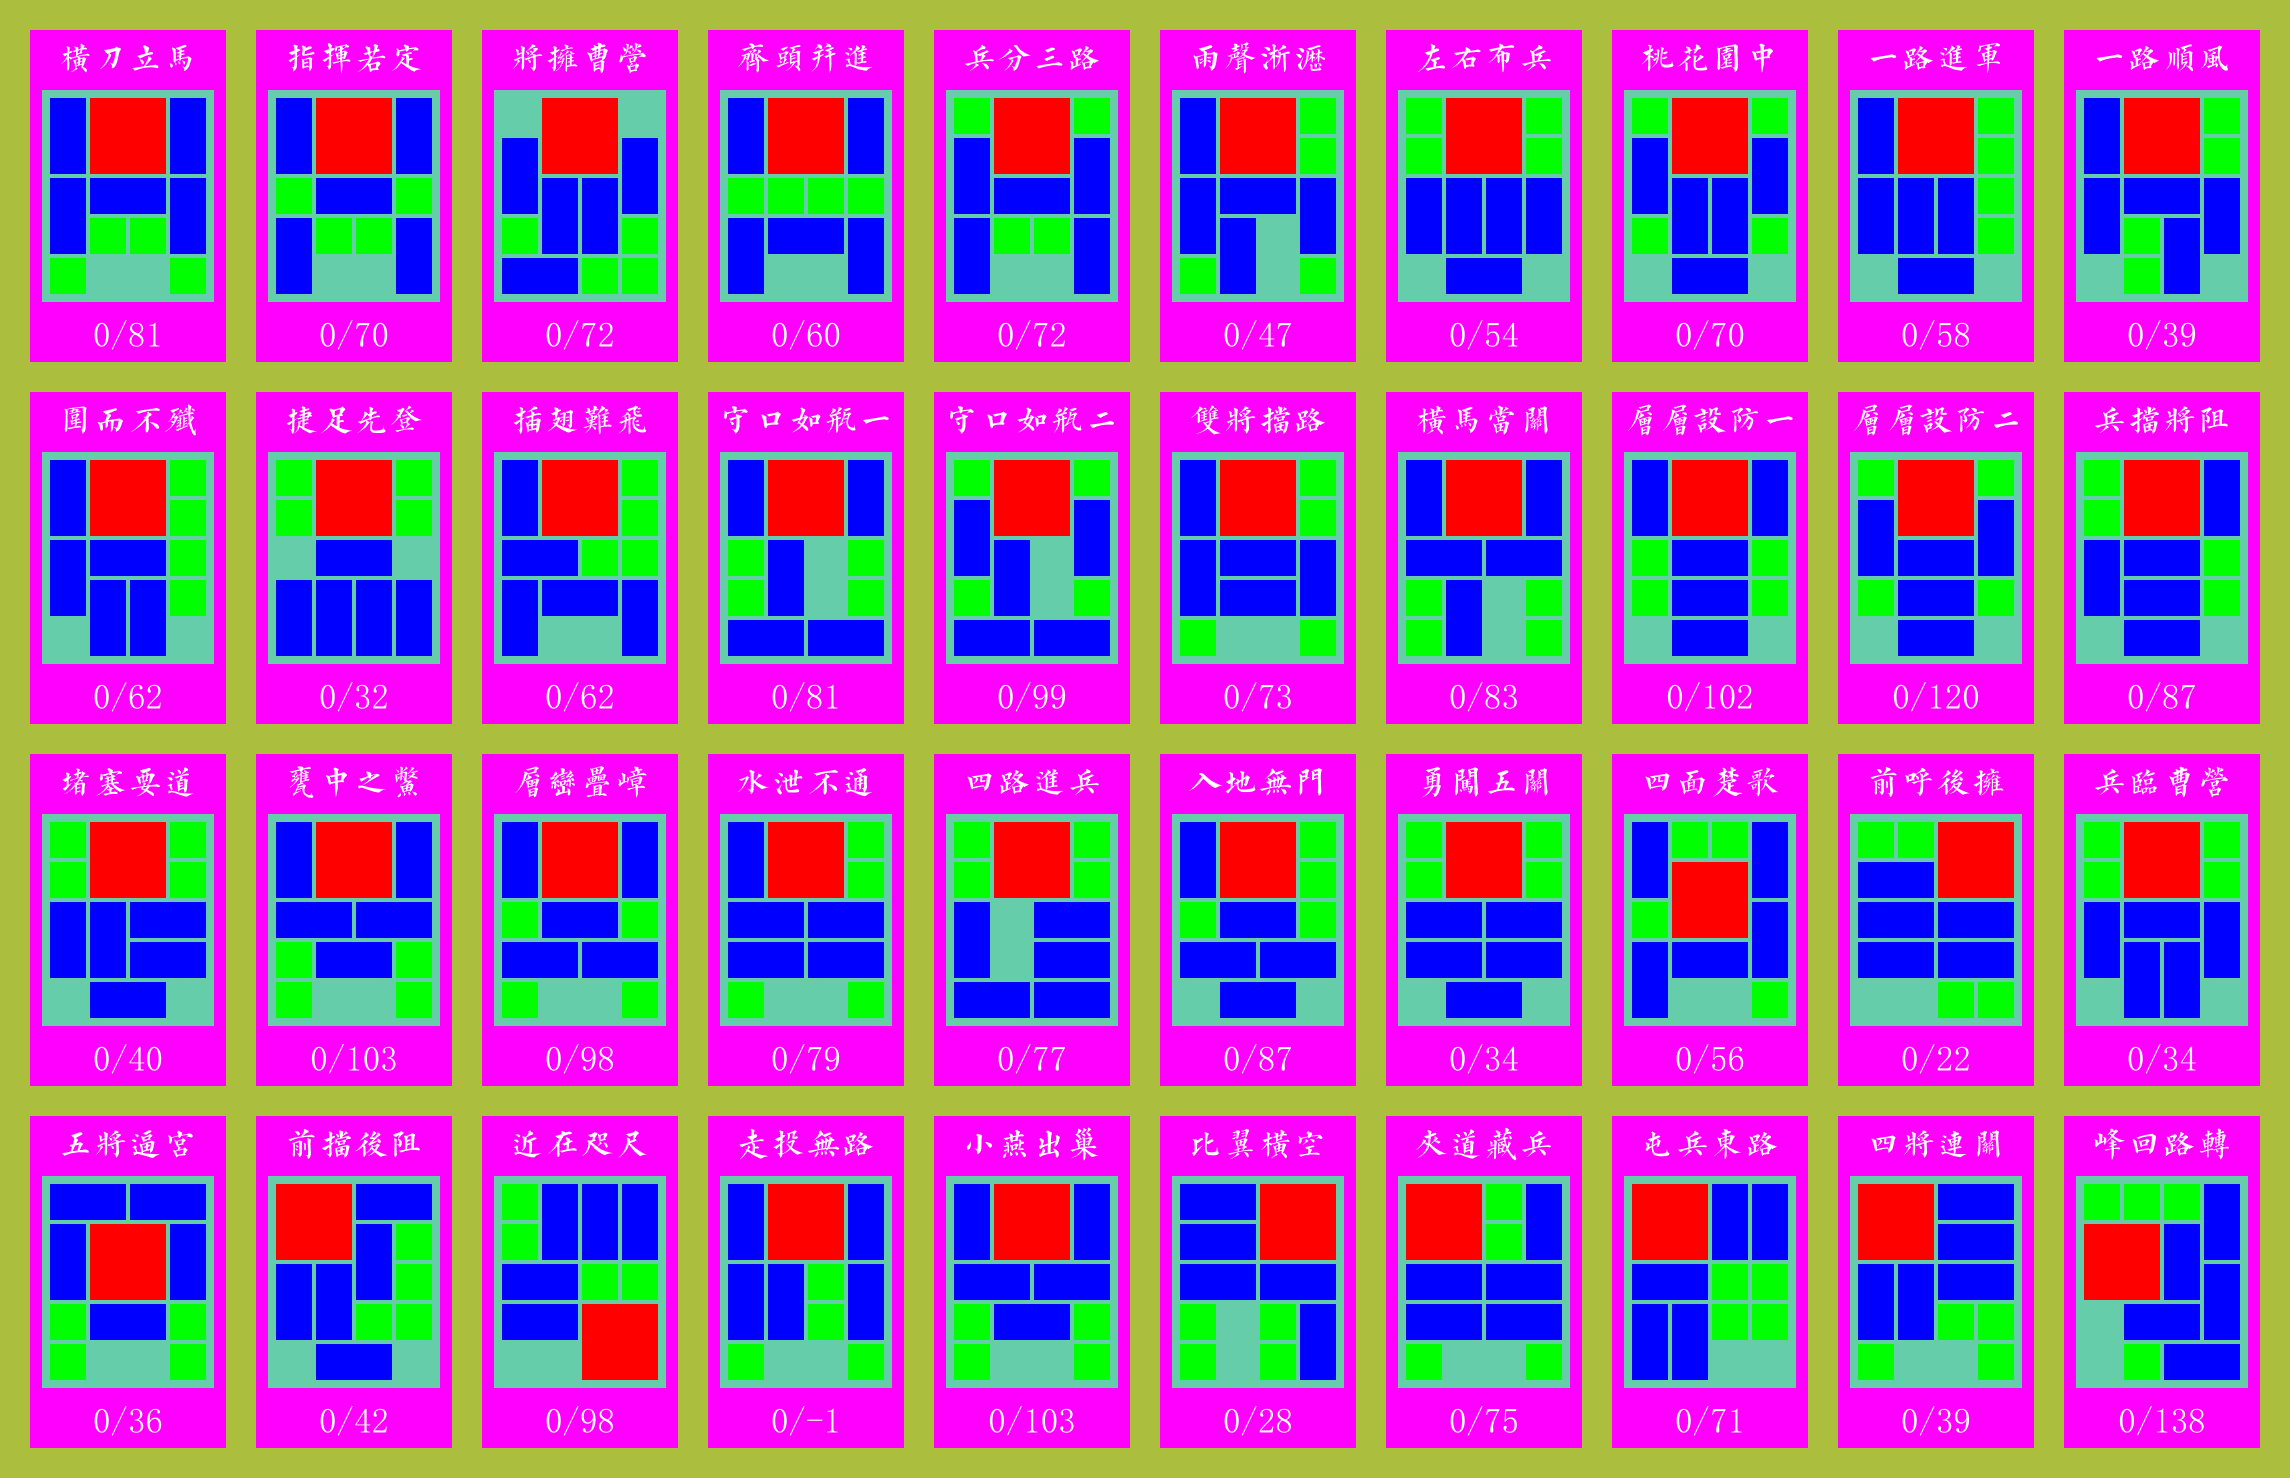
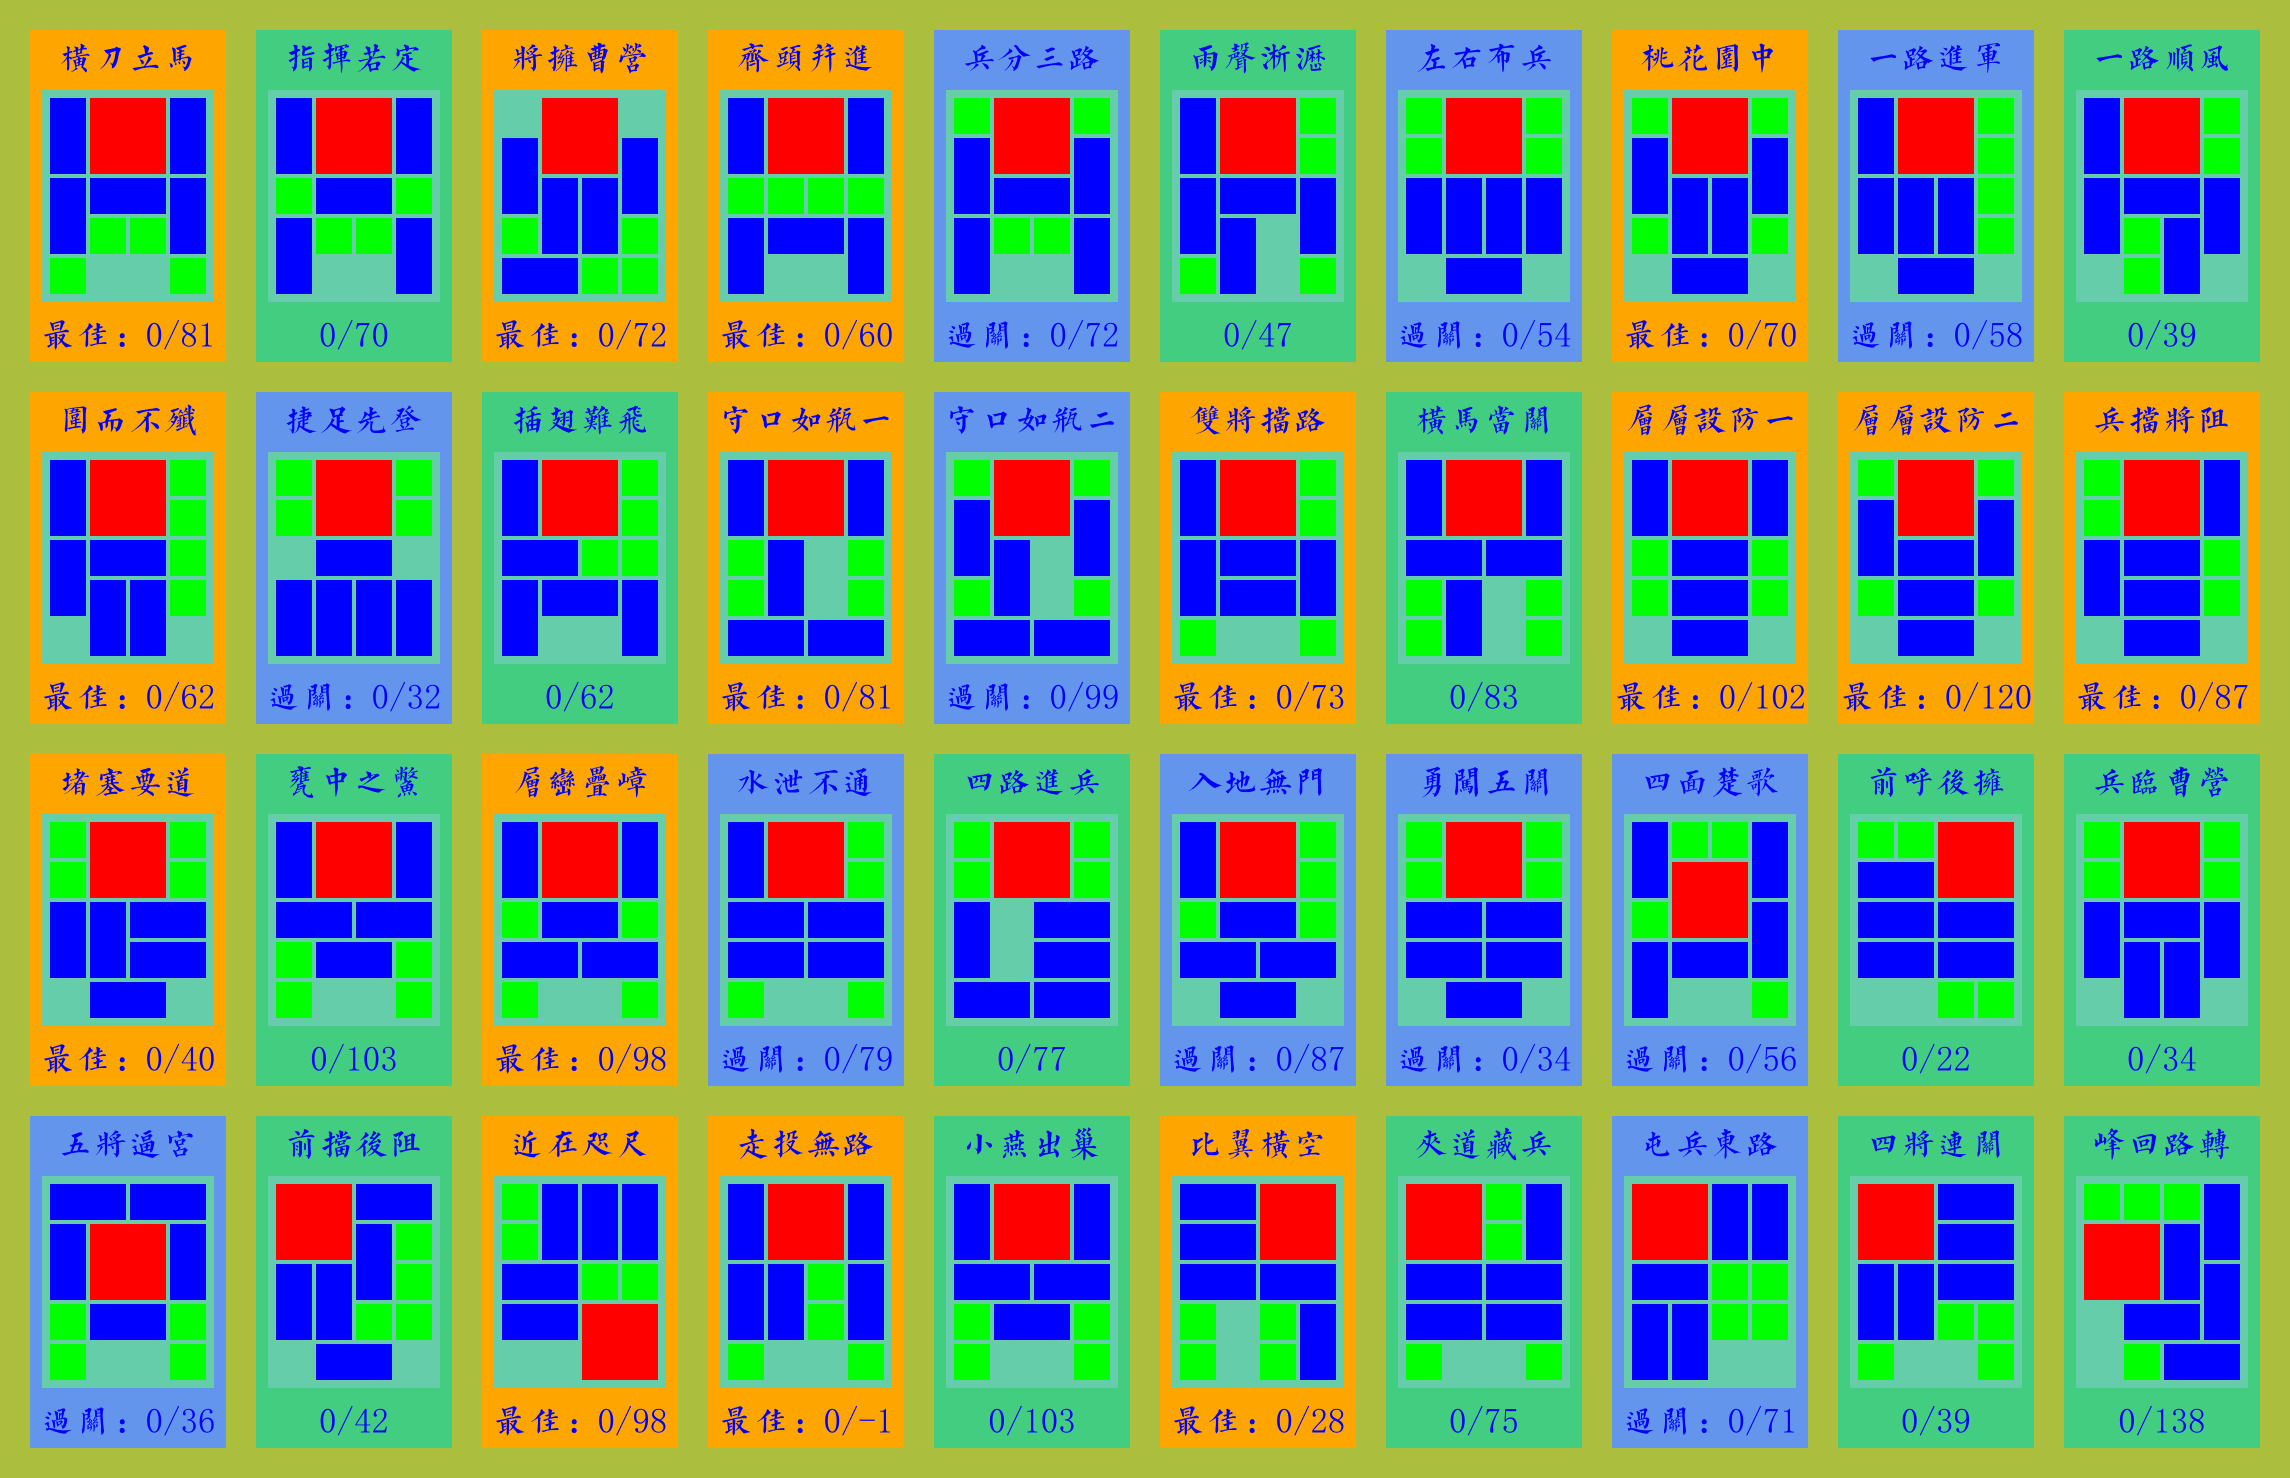
每个级别的背景颜色不一样。

diff --git a/level/level.go b/level/level.go
@@ -6,6 +6,10 @@ import (
 	"github.com/ghj1976/HuaRongDao/common"
 )
 
+type ChessManStatus byte // 棋子的状态枚举
+
+type LevelStatus byte // 关卡级别的三种状态： 未过关、已过关，单非最优、 最优过关。
+
 const (
 	// 以下为状态
 	ChessManStable  = iota // 棋子不可移动状态
@@ -13,25 +17,28 @@ const (
 	ChessManMoving         // 棋子正在移动中
 
 	BlackChessManPos = '一' // 棋盘中空位的标示
-)
 
-type ChessManStatus byte // 棋子的状态枚举
+	LevelNotPass  = iota // 级别未过关
+	LevelPass            // 普通过关
+	LevelBestPass        // 最优过关
+)
 
 // 每个关卡的信息类
 type LevelInfo struct {
-	ID         int                // 编号
-	Name       string             // 级别名称
-	MinStepNum int                // 最小步数
-	Layout     string             // 布局字符串，中间会夹杂空格等无意义字符
-	Class      string             // 分类
-	Difficult  int                // 难度， 数字越大越难， 就是已知的最小步数
-	CaoPos     int                // 曹操所在位置 1线 | 2线 | 3线 | 4线
-	HNum       int                // 横棋子个数分类: 0横 | 1横 | 2横 | 3横 | 4横 | 5横
-	MapArray   [5][4]rune         // 实时的当前地图数组
-	ChessMans  map[rune]*ChessMan // 棋子集合
-	StepRecord string             // 游戏所走步数的记录，使用固定格式的 rune来完成记录， 第一个是棋子名，第二个是方向（上下左右），然后又是棋子
-	StepNum    int                // 本关一共走了多少步,一个棋子的连续移动，只算一步。
-	Success    bool               // 是否已经过关？
+	ID          int                // 编号
+	Name        string             // 级别名称
+	MinStepNum  int                // 最小步数
+	Layout      string             // 布局字符串，中间会夹杂空格等无意义字符
+	Class       string             // 分类
+	Difficult   int                // 难度， 数字越大越难， 就是已知的最小步数
+	CaoPos      int                // 曹操所在位置 1线 | 2线 | 3线 | 4线
+	HNum        int                // 横棋子个数分类: 0横 | 1横 | 2横 | 3横 | 4横 | 5横
+	MapArray    [5][4]rune         // 实时的当前地图数组
+	ChessMans   map[rune]*ChessMan // 棋子集合
+	StepRecord  string             // 游戏所走步数的记录，使用固定格式的 rune来完成记录， 第一个是棋子名，第二个是方向（上下左右），然后又是棋子
+	StepNum     int                // 本关一共走了多少步,一个棋子的连续移动，只算一步。
+	Success     bool               // 是否已经过关？
+	LevelStatus LevelStatus        // 关卡完成状态。
 }
 
 // 游戏中的棋子类
@@ -51,13 +58,14 @@ type ChessMan struct {
 }
 
 // 构造一个关卡信息
-func NewLevelInfo(id int, name string, minStepNum int, class string, layout string) *LevelInfo {
+func NewLevelInfo(id int, name string, minStepNum int, class string, layout string, status LevelStatus) *LevelInfo {
 	li := LevelInfo{}
 	li.ID = id
 	li.Name = name
 	li.MinStepNum = minStepNum
 	li.Layout = layout
 	li.Class = class
+	li.LevelStatus = status
 
 	li.Reset()
 	return &li

diff --git a/textures/list.go b/textures/list.go
@@ -14,8 +14,10 @@ import (
 
 var (
 	// 常用的几种颜色
-	bg1Color color.RGBA = color.RGBA{255, 0, 255, 255}   // 最外面外框的颜色
-	bg2Color color.RGBA = color.RGBA{102, 205, 170, 255} // 游戏区域的外框颜色
+	bg10Color color.RGBA = color.RGBA{67, 205, 128, 255}  // 最外面外框的颜色
+	bg11Color color.RGBA = color.RGBA{100, 149, 237, 255} // 最外面外框的颜色
+	bg12Color color.RGBA = color.RGBA{255, 165, 0, 255}   // 最外面外框的颜色
+	bg2Color  color.RGBA = color.RGBA{102, 205, 170, 255} // 游戏区域的外框颜色
 	// 三种棋子的颜色
 	blueColor  color.RGBA = color.RGBA{0, 0, 255, 255}
 	redColor   color.RGBA = color.RGBA{255, 0, 0, 255}
@@ -32,13 +34,22 @@ func GetBounds(d int) (borderWidth, chessManWidth, areaWidth, areaHeight int) {
 }
 
 // 绘出每个布局的缩略效果图
-func LevelRGBA(d int, level *level.LevelInfo) *image.RGBA {
+func LevelRGBA(d int, le *level.LevelInfo) *image.RGBA {
 	borderWidth, chessManWidth, areaWidth, areaHeight := GetBounds(d)
 
 	// 绘图区域创建
 	m := image.NewRGBA(image.Rect(0, 0, areaWidth, areaHeight))
 
-	// 画所有区域的外框
+	// 画所有区域的外框, 不同状态的关卡，背景颜色不一样。
+	var bg1Color color.RGBA
+	if le.LevelStatus == level.LevelPass {
+		bg1Color = bg11Color
+	} else if le.LevelStatus == level.LevelBestPass {
+		bg1Color = bg12Color
+	} else {
+		le.LevelStatus = level.LevelNotPass
+		bg1Color = bg10Color
+	}
 	draw.Draw(m, m.Bounds(), &image.Uniform{bg1Color}, image.ZP, draw.Src)
 
 	topy1 := 3 * chessManWidth / 2
@@ -52,7 +63,7 @@ func LevelRGBA(d int, level *level.LevelInfo) *image.RGBA {
 
 	var currColor *color.RGBA
 	// 画每个棋子
-	for _, cm := range level.ChessMans {
+	for _, cm := range le.ChessMans {
 
 		if cm.RelHeight == 2 && cm.RelWidth == 2 {
 			currColor = &redColor
@@ -70,15 +81,23 @@ func LevelRGBA(d int, level *level.LevelInfo) *image.RGBA {
 			&image.Uniform{currColor}, image.ZP, draw.Src)
 
 	}
-	txtColor := color.RGBA{255, 255, 255, 255} // RGBA, 不透明 A 为 255
+	txtColor := color.RGBA{0, 0, 255, 255} // RGBA, 不透明 A 为 255
 
 	// 写关卡名称
 	cpt1 := image.Point{X: areaWidth / 2, Y: 40}
-	DrawString(m, 35.0, txtColor, cpt1, level.Name)
+	DrawString(m, 35.0, txtColor, cpt1, le.Name)
 
 	// 写最小步数
 	cpt2 := image.Point{X: areaWidth / 2, Y: areaHeight - 15}
-	stepStr := fmt.Sprintf("%d/%d", 0, level.MinStepNum)
+
+	var stepStr string
+	if le.LevelStatus == level.LevelPass {
+		stepStr = fmt.Sprintf("过关：%d/%d", 0, le.MinStepNum)
+	} else if le.LevelStatus == level.LevelBestPass {
+		stepStr = fmt.Sprintf("最佳：%d/%d", 0, le.MinStepNum)
+	} else {
+		stepStr = fmt.Sprintf("%d/%d", 0, le.MinStepNum)
+	}
 	DrawString(m, 35.0, txtColor, cpt2, stepStr)
 
 	return m

diff --git a/tools/main.go b/tools/main.go
@@ -6,6 +6,7 @@ import (
 	"image/draw"
 	"image/png"
 	"log"
+	"math/rand"
 	"os"
 
 	"github.com/ghj1976/HuaRongDao/level"
@@ -34,12 +35,20 @@ func main() {
 		}
 		a := i % 10
 		b := i / 10
-		log.Println(a, "-", b)
+		// log.Println(a, "-", b)
 
 		le.MapArray = level.Layout2Map(le.Layout)
 		le.ChessMans = level.ChessManArray2Map(le.MapArray)
+		//log.Println(le.Layout)
+		r := rand.Intn(3)
+		if r == 0 {
+			le.LevelStatus = level.LevelNotPass
+		} else if r == 1 {
+			le.LevelStatus = level.LevelPass
+		} else {
+			le.LevelStatus = level.LevelBestPass
+		}
 
-		log.Println(le.Layout)
 		m := textures.LevelRGBA(2, &le)
 
 		// 绘制在大背景图上
@@ -62,4 +71,5 @@ func main() {
 	png.Encode(imgfile, mmm)
 
 	textures.ReleaseFont()
+	log.Println("finish")
 }

diff --git a/scheduler.go b/scheduler.go
@@ -85,7 +85,7 @@ func load(eng sprite.Engine) {
 			黄关关张
 			黄甲乙张
 			丙一一丁
-			`)
+			`, level.LevelNotPass)
 	gm := model.NewGameModel(lv)
 
 	gv = view.NewGameView(gm, eng)
